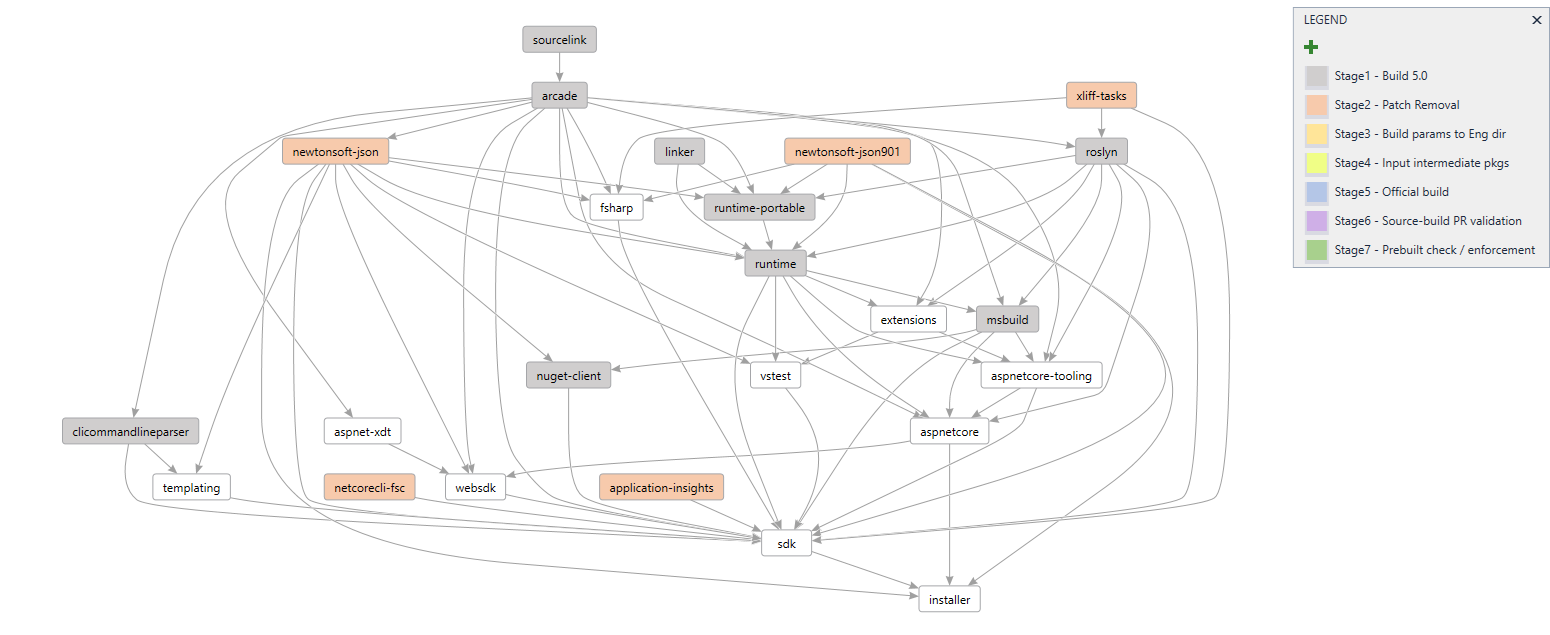
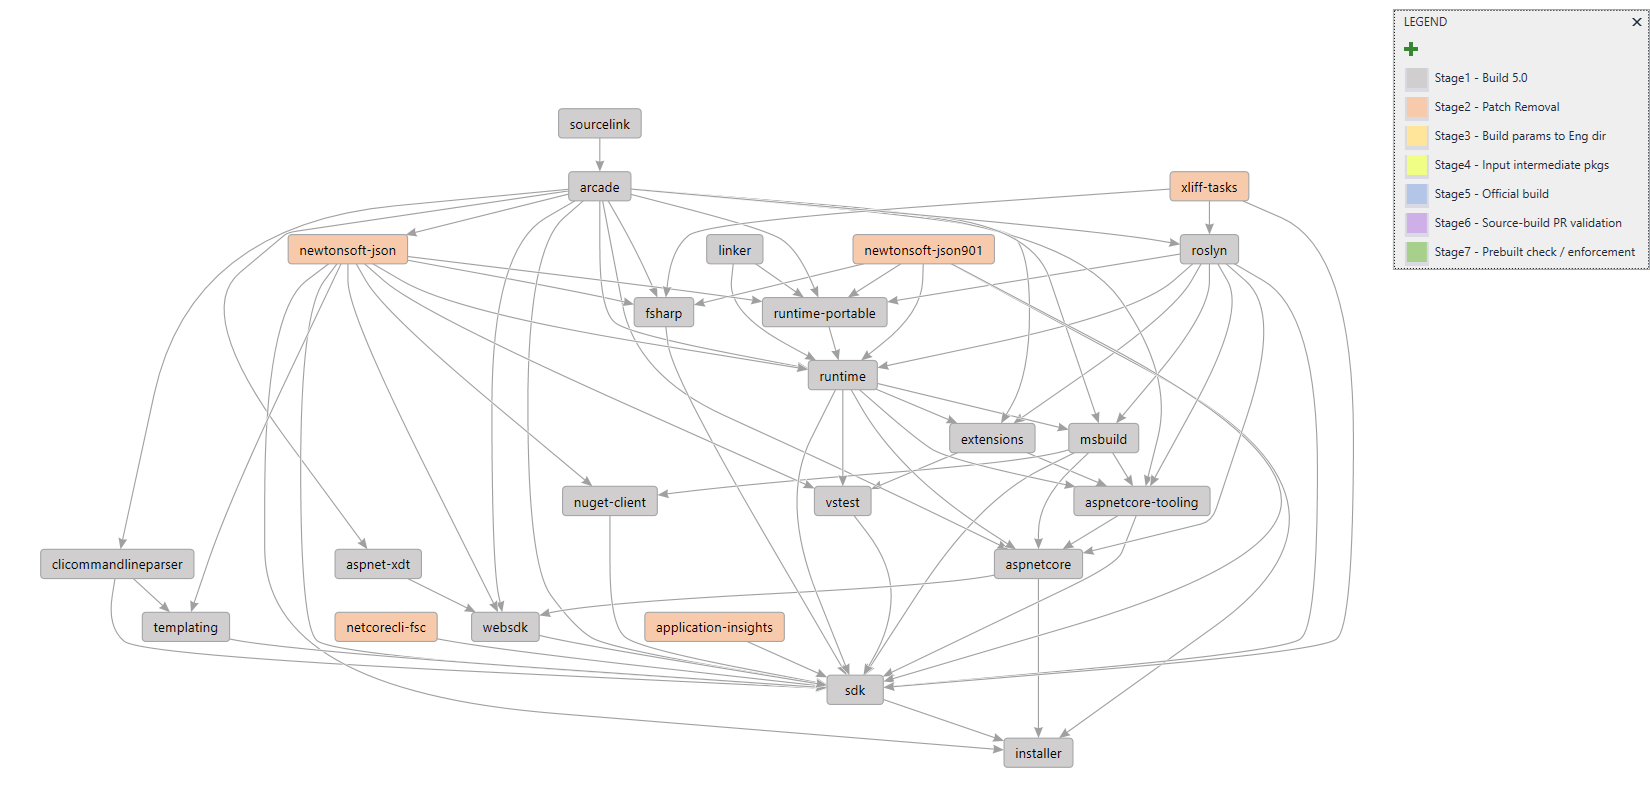
Update image and patch removal status

diff --git a/Documentation/planning/arcade-powered-source-build/implementation-plan.md b/Documentation/planning/arcade-powered-source-build/implementation-plan.md
@@ -9,7 +9,7 @@ To get each repo building with the new source-build 5.0 plan, [Arcade-Powered So
 | --- | --- | --- | :---: | :---: | :---: | :---: | :---: | :---: | :---: |
 | sbrp | Source-build-reference-packages | [Dan Seefeldt](https://github.com/dseefeld) | ✔ | ✔ | | | | | |
 | Tools | sourcelink | [Tomas Matousek](https://github.com/tmat) | ✔ | 4 | | | | | |
-| Tools | arcade | [Mark Wilkie](https://github.com/markwilkie) | ✔ | 11 | | | | | |
+| Tools | arcade | [Mark Wilkie](https://github.com/markwilkie) | ✔ | ⏱ 11 | | | | | |
 | 1 | application-insights | [Reiley Yang](https://github.com/reyang) | ✔ | ✔ | | | | | |
 | 1 | aspnet-xdt | [Vijay Ramakrishnan](https://github.com/vijayrkn) | ✔ | 2 | | | | | |
 | 1 | newtonsoft-json | [Chris Rummel](https://github.com/crummel) | ✔ | ✔ | | | | | |
@@ -17,18 +17,18 @@ To get each repo building with the new source-build 5.0 plan, [Arcade-Powered So
 | 1 | newtonsoft-json901 | [Chris Rummel](https://github.com/crummel) | ✔ | ✔ | | | | | |
 | 1 | xliff-tasks | [William Li](https://github.com/wli3) | ✔ | 1 | | | | | |
 | 1 | clicommandlineparser | [Sarah Oslund](https://github.com/sfoslund) | ✔ | 1 | | | | | |
-| 1 | roslyn | [Fred Silberberg](https://github.com/333fred) | ✔ | 4 | | | | | |
+| 1 | roslyn | [Fred Silberberg](https://github.com/333fred) | ✔ | 5 | | | | | |
 | 2 | linker | [Dan Seefeldt](https://github.com/dseefeld) | ✔ | 3 | | | | | |
-| 2 | runtime | [Jared Parsons](https://github.com/jaredpar) | ✔ | 10 | | | | | |
+| 2 | runtime | [Jared Parsons](https://github.com/jaredpar) | ✔ | 15 | | | | | |
 | 2 | msbuild | [Ben Villalobos](https://github.com/BenVillalobos) | ✔ | 4 | | | | | |
-| 2 | NuGet.Client | [Fernando Aguilar Reyes](https://github.com/dominoFire) | ✔ | 8 | | | | | |
+| 2 | NuGet.Client | [Fernando Aguilar Reyes](https://github.com/dominoFire) | ✔ | ⏱ 10 | | | | | |
 | 2 | templating | [Jose Aguilar](https://github.com/donJoseLuis) | ✔ | ✔ | | | | | |
-| 3 | aspnetcore | [John Luo](https://github.com/JunTaoLuo) | ✔ | 14 | | | | | |
+| 3 | aspnetcore | [John Luo](https://github.com/JunTaoLuo) | ✔ | 13 | | | | | |
 | 3 | websdk | [Vijay Ramakrishnan](https://github.com/vijayrkn) | ✔ | 1 | | | | | |
-| 4 | sdk | [Sarah Oslund](https://github.com/sfoslund) | ✔ | 2 + 3(cli) + 3(toolset) | | | | | |
-| 4 | vstest | [Jakub Jares](https://github.com/nohwnd) | ✔ | 6 | | | | | |
-| 4 | fsharp | [Brett Forsgren](https://github.com/brettfo) | ✔ | 2 | | | | | |
-| 5 | installer | [Sarah Oslund](https://github.com/sfoslund) | ✔ | 5 | | | | | |
+| 4 | sdk | [Sarah Oslund](https://github.com/sfoslund) | ✔ | 9 | | | | | |
+| 4 | vstest | [Jakub Jares](https://github.com/nohwnd) | ✔ | 7 | | | | | |
+| 4 | fsharp | [Brett Forsgren](https://github.com/brettfo) | ✔ | 4 | | | | | |
+| 5 | installer | [Sarah Oslund](https://github.com/sfoslund) | ✔ | 3 | | | | | |
 
 | Status | Description |
 | --- | --- |
